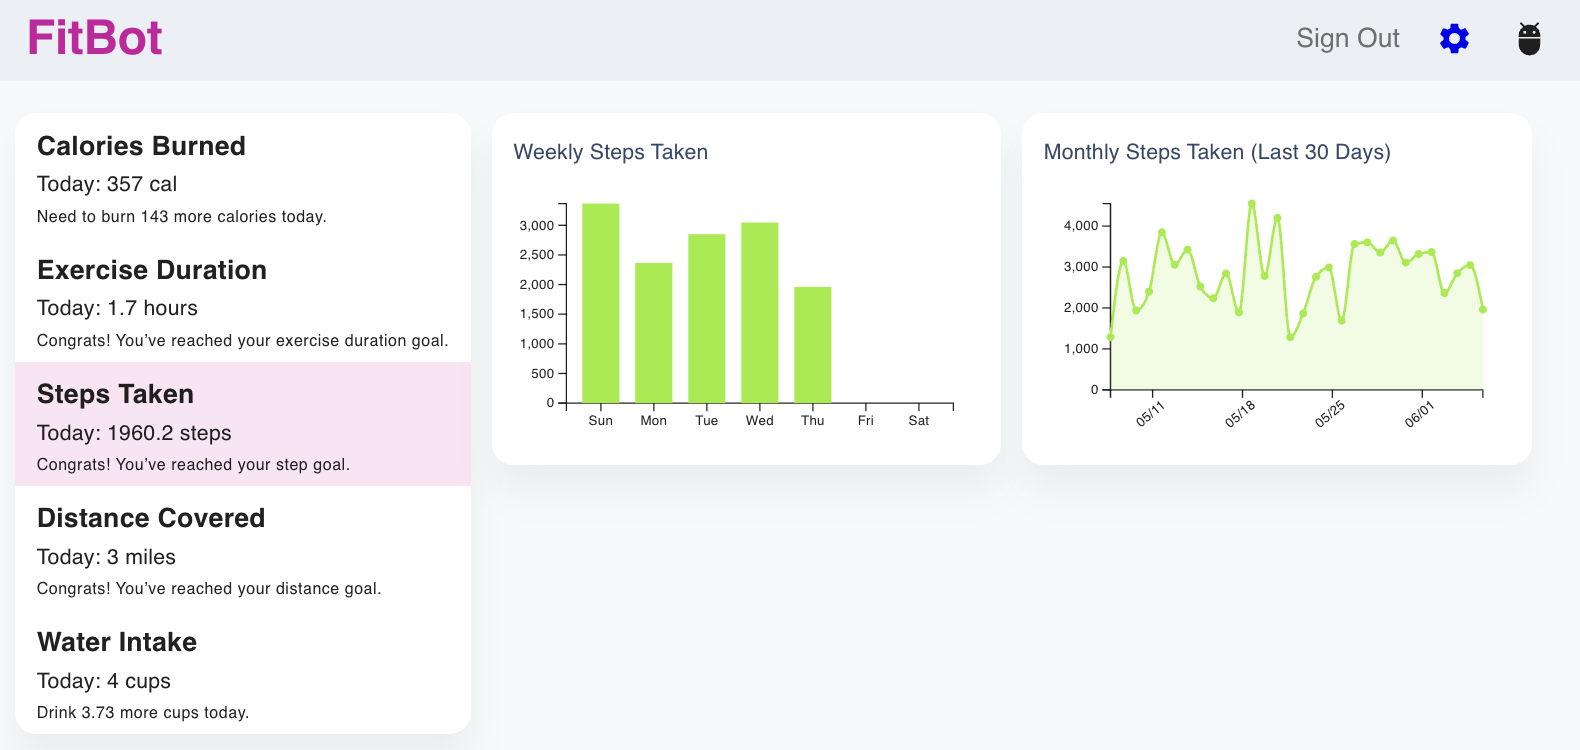
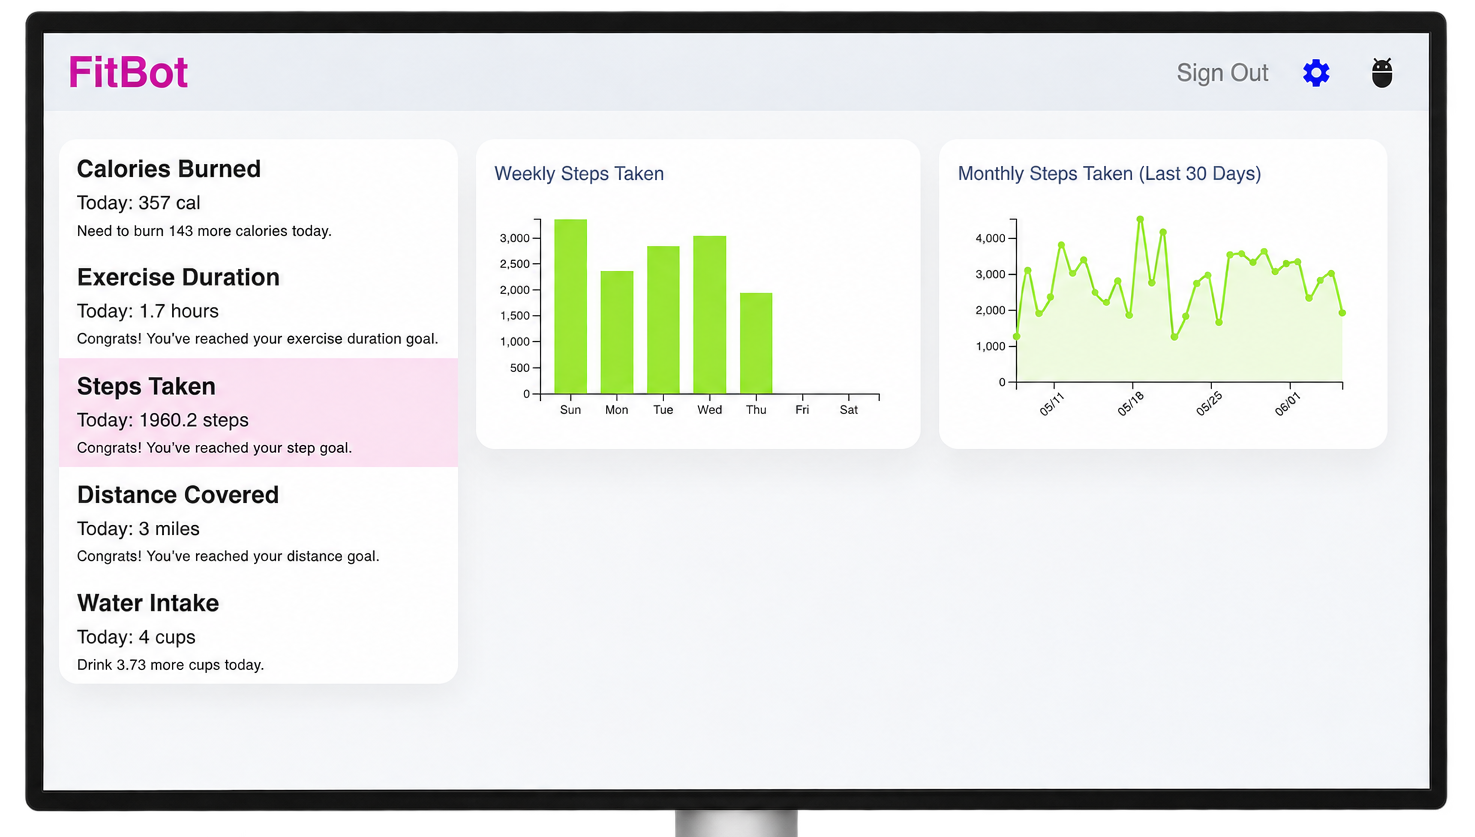
Added lab on a nail project and improved aesthetics for fitbot project images

Changed region(s): [[0.0, 0.0, 0.998, 1.0], [0.6549, 0.184, 0.8732, 0.2147], [0.3119, 0.184, 0.4678, 0.2147]]

diff --git a/index.html b/index.html
@@ -241,14 +241,61 @@
           <h2>Projects</h2>
         </div>
 
-        <!-- TODO: ADD LAB ON A NAIL PROJECT CARD!! -->
-
         <!-- Projects cards grid (media header + arrow repo link) -->
         <div class="projects-grid">
-          <!-- Project card: FitBot -->
+
+          <!-- Project card: Lab On A Nail -->
           <article class="project-card">
             <!-- Media area (add 1–3 screenshots here) -->
             <div class="project-media">
+              <img src="/assets/img/labOnANail/3_Finger_in_fluids.jpeg" alt="Lab-On-A-Nail Screenshot 1" />
+              <img src="/assets/img/labOnANail/5_Spectrophotometer.png" alt="Lab-On-A-Nail Screenshot 2" />
+              <img src="/assets/img/labOnANail/Nailytics_Glucose_Results_Screen_closeup.png" alt="Lab-On-A-Nail Screenshot 3" />
+
+              <!-- Arrow button (goes to repo) -->
+              <!-- PLACEHOLDER (TODO): replace with Lab-On-A-Nail repo URL -->
+              <a class="arrow-btn" href="https://doi.org/10.1145/3800645.3812815" target="_blank" rel="noopener" aria-label="Open project GitHub repository">
+                <!-- SVG arrow icon (looks like the common portfolio arrow) -->
+                <svg class="arrow-icon" viewBox="0 0 24 24" aria-hidden="true">
+                  <path d="M7 17L17 7" fill="none" stroke="currentColor" stroke-width="2" stroke-linecap="round"/>
+                  <path d="M10 7h7v7" fill="none" stroke="currentColor" stroke-width="2" stroke-linecap="round" stroke-linejoin="round"/>
+                </svg>
+              </a>
+            </div>
+
+            <!-- Text content area -->
+            <div class="project-body">
+              <!-- Project title -->
+              <h3>Lab-On-A-Nail</h3>
+
+              <!-- Project description -->
+              <p class="muted">
+                A microfluidic wearable device and companion Android app for real-time biomarker detection and personalized health insights
+              </p>
+
+              <!-- Project bullets -->
+              <ul>
+                <li>Designed and fabricated a microfluidic fingernail wearable device using Fusion 360 and FormLabs, incorporating colorimetric biosensors for biomarker detection in bodily fluids</li>
+                <li>Built a companion Android app using Kotlin and XML, processing real-time sensor data to estimate biomarker levels with 80% accuracy and deliver personalized health insights</li>
+                <li>Independently conducted a 21-participant user study, applying findings to improve device usability by 20%</li> 
+                <li>Co-first-authored the resulting research paper published at ACM DIS 2026</li>
+              </ul>
+
+              <!-- Technology chips/hashtags -->
+              <div class="tag-row">
+                <span class="hash">#kotlin</span>
+                <span class="hash">#android</span>
+                <span class="hash">#xml</span>
+                <span class="hash">#figma</span>
+                <span class="hash">#fusion360</span>
+              </div>
+            </div>
+          </article>
+
+          <!-- Project card: FitBot -->
+          <article class="project-card">
+            <div class="project-media">
+               <!-- Media area (add 1–3 screenshots here) -->
               <img src="/assets/img/fitBot/Dashboard.png" alt="FitBot screenshot 1" />
               <img src="/assets/img/fitBot/Goals-StepsTaken.png" alt="FitBot screenshot 2" />
               <img src="/assets/img/fitBot/Steps.png" alt="FitBot screenshot 3" />
@@ -281,7 +328,7 @@
                 <li>Leveraged research to improve clarity by 45% and user engagement by 52%</li></lili>
               </ul>
 
-              <!-- Tag chips (hashtags, but blue) -->
+              <!-- Tag chips/hashtags -->
               <div class="tag-row">
                 <span class="hash">#mongodb</span>
                 <span class="hash">#express</span>
@@ -321,6 +368,7 @@
                 <li>Reduced manual bug documentation effort by ~70%</li>
               </ul>
 
+              <!-- Technology chips/hashtags -->
               <div class="tag-row">
                 <span class="hash">#python</span>
                 <span class="hash">#ci</span>
@@ -357,6 +405,7 @@
                 <li>Developed two new shaders through research on new/improved shading models for textile materials; optimized cloth's visual quality by 80%</li>
               </ul>
 
+              <!-- Technology chips/hashtags -->
               <div class="tag-row">
                 <span class="hash">#cpp</span>
                 <span class="hash">#opengl</span>
@@ -393,7 +442,7 @@
                 <li>Conducted user interviews and usability testing, incorporating feedback to refine features and improve overall usability</li>
               </ul>
 
-
+              <!-- Technology chips/hashtags -->
               <div class="tag-row">
                 <span class="hash">#java</span>
                 <span class="hash">#xml</span>

diff --git a/assets/css/style.css b/assets/css/style.css
@@ -287,6 +287,7 @@ a:hover{ text-decoration:underline; }
 h1{
   margin: 0 0 12px;
   font-size: 55px;
+  /*font-family:'Georgia', sans-serif; typography */
   line-height: 1.1;
   letter-spacing: -0.5px;
 }
@@ -517,21 +518,8 @@ h1{
   box-shadow: var(--shadow); /* soft shadow */
   overflow: hidden; /* keeps rounded corners for media */
 
-  /* The bullet points' spacing within each experience card*/
-  & ul{
-    padding-left: 24px;  /* Indentation of bullet list */
-  }
-
-   /* Spacing between individual bullet points */
-  & li{
-    margin-bottom: 6px; /* Space between bullet points */
-    line-height: 1.6;    /* Space between lines within each bullet */
-  }
-
-  /* Remove extra spacing after the final bullet */
-  & li:last-child{
-    margin-bottom: 0;
-  }
+  display: flex;
+  flex-direction: column;
 
   transform-style: preserve-3d; /* enables 3D transforms */
   transition: transform 160ms ease, box-shadow 160ms ease; /* smooth motion */
@@ -576,9 +564,63 @@ h1{
   margin-top: 20px; /* padding space above large image */
 }
 
+/*Same project card but with image layouts reversed/flipped
+
+/* Lab-on-a-Nail: reverse the image collage layout 
+.flipped-image-positions .project-media {
+  grid-template-columns: 1fr 1.4fr;
+  /* Smaller images on left, larger image on right 
+}
+
+/* Move the large first image to the right column 
+.flipped-image-positions .project-media img:nth-child(1) {
+  grid-column: 2;
+  grid-row: 1 / span 2;
+}
+
+/* Stack the two smaller images on the left 
+.flipped-image-positions .project-media img:nth-child(2) {
+  grid-column: 1;
+  grid-row: 1;
+}
+
+.flipped-image-positions .project-media img:nth-child(3) {
+  grid-column: 1;
+  grid-row: 2;
+}
+
+*/
+
 /* Text body under the media area */
 .project-body{
-  padding: 18px; /* comfortable reading space */
+  padding: 12px 24px; /* comfortable reading space */
+
+  flex: 1; /* Fill the remaining card height */
+  display: grid; /* Arrange content into four rows */
+  grid-template-rows: auto auto auto 1fr;
+  /* Title | Description | Bullet list | Hashtags */
+
+  /* Control spacing within the card */
+  & p {
+    margin: 0 0 10px; /* Only 8px between description and bullet list */
+  }
+
+  /* The bullet points' spacing within each experience card*/
+  & ul{
+    padding-left: 24px;  /* Indentation of bullet list */
+    margin: 0px;/* Remove the browser's default top/bottom list margins */
+  }
+
+   /* Spacing between individual bullet points */
+  & li{
+    margin-bottom: 6px; /* Space between bullet points */
+    line-height: 1.6;    /* Space between lines within each bullet */
+  }
+
+  /* Remove extra spacing after the final bullet */
+  & li:last-child{
+    margin-bottom: 0;
+  }
 }
 
 /* Project title */
@@ -635,6 +677,7 @@ h1{
   gap: 10px;
   flex-wrap: wrap;
   margin-top: 12px;
+  align-self: end; 
 }
 
 /* Hashtags styled to match my blue scheme */
@@ -642,6 +685,9 @@ h1{
 .hash{
   font-weight: 200;
   font-size: 0.95rem;
+  padding: 4px 8px; /* Space inside the pill */
+  border-radius: 999px; /* Rounded pill shape */
+  transition: background 180ms ease, transform 180ms ease;
 }
 
 /* Rotating soft accent colors */
@@ -662,8 +708,14 @@ h1{
 }
 
 .hash:hover{
-  text-decoration: underline;
+  text-decoration: b;
   opacity: 0.9;
+
+  /* background: rgba(186, 220, 255, 0.35); Pastel blue */
+   background: rgb(from currentColor r g b / 0.15); /* Use the hashtag's own text color at 15% opacity */
+  font-weight: 600;  /* Semibold on hover */
+  transform: translateY(-2px); /* Slight upward movement */
+  opacity: 1;
 }
 
 /* Card styling (each card spans 6 columns on desktop) */
